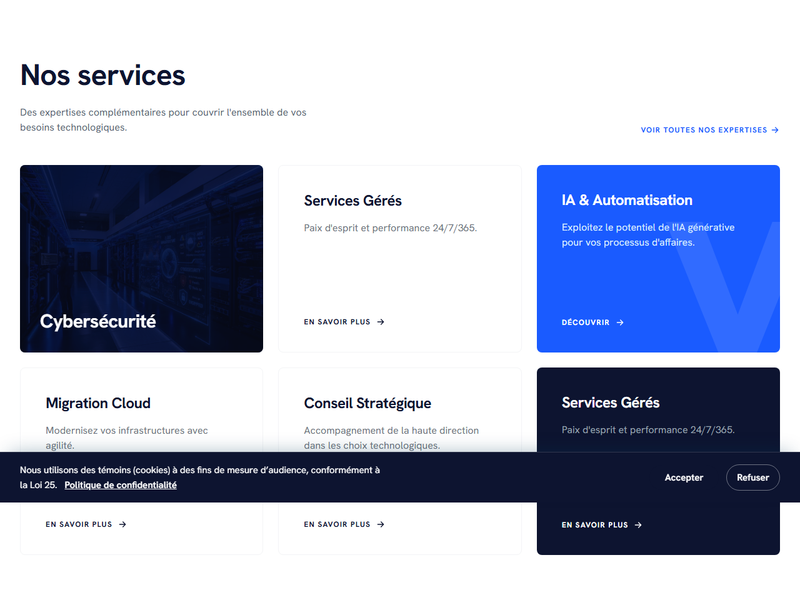
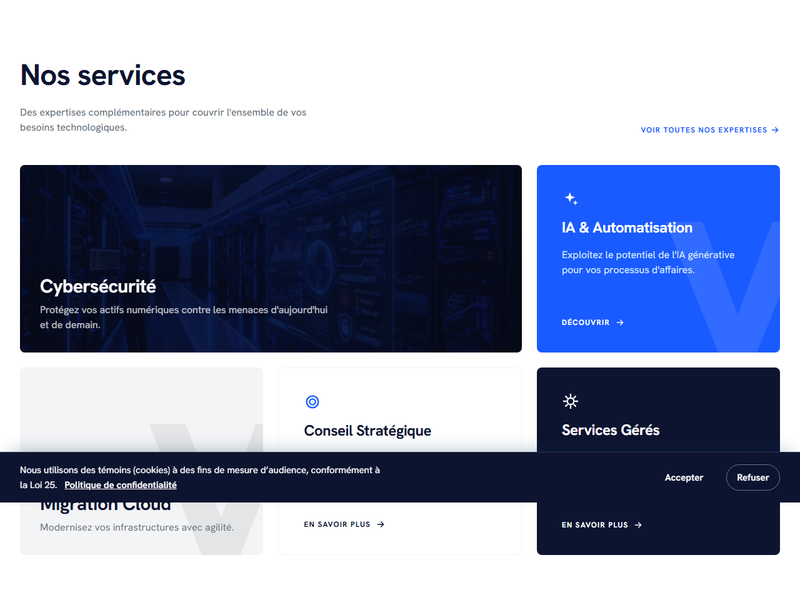
feat(pages): zero lien mort + 404 editable CMS, mention prototype retiree ; feat(home): bento reference - dedupe Services Geres, carte large, icones, V filigrane ; feat(design): footer blanc comme header

diff --git a/src/content.config.ts b/src/content.config.ts
@@ -365,11 +365,18 @@ function sectionsSchema(image: () => z.ZodTypeAny) {
           // Visuel de la tuile (chemin PUBLIC) ; requis pour la variante image.
           image: z.string().default(''),
           // Fidélité maquette (bento « Nos services ») : peau de la carte.
-          // image = photo + voile nuit, titre 30px ; claire = blanche bordée ;
-          // bleue = aplat Bleu Victrix + forme décorative ; nuit = aplat navy.
+          // image = photo + voile nuit, titre 30px (sans image : placeholder
+          // gris clair + « V » filigrane) ; claire = blanche bordée ;
+          // bleue = aplat Bleu Victrix + « V » filigrane ; nuit = aplat navy.
           variant: z.enum(['image', 'claire', 'bleue', 'nuit']).default('claire'),
           // Libellé du lien de CETTE carte ; vide = learnMore de la section.
           linkLabel: z.string().default(''),
+          // Référence bento 2026-08-11 : carte LARGE (2 colonnes sur 3) —
+          // ex. Cybersécurité en tête de grille. Additif, défaut false.
+          wide: z.boolean().default(false),
+          // Pictogramme optionnel en tête des peaux claire/bleue/nuit
+          // (clés fermées — référence bento 2026-08-11). Vide = aucun.
+          icon: z.enum(['', 'ia', 'strategie', 'engrenage']).default(''),
         }),
       ),
     }),

diff --git a/docs/design/arbitrages-design-a-trancher.md b/docs/design/arbitrages-design-a-trancher.md
@@ -126,6 +126,17 @@ per la règle v2 (structure = export, valeurs = planche) — **à confirmer** :
   header passe de `bg-surface` (Ivoire `#FAF7F3`) à **BLANC** (`bg-white`) —
   appliqué à `Header.astro` + `CampaignHeader.astro` (cohérent avec le panneau
   méga déjà blanc). Pour info à l'équipe design.
+- **RÉVISION 2026-08-11 (suite, proposition user acceptée)** : le FOOTER passe
+  aussi de `bg-surface-container-low` (Sable clair) à **BLANC**, aligné sur le
+  header, avec liseré froid `#C5C6D0/30` en tête (séparation sur les sections
+  blanches) — `Footer.astro` + `CampaignFooter.astro`. L'export Figma
+  « Composants » montrait un footer clair sable — divergence assumée, à
+  confirmer avec l'équipe design.
+- **Bento accueil (référence user 2026-08-11)** : « Services Gérés » dédoublé
+  (5 cartes), Cybersécurité LARGE (2 col, description affichée sur la photo),
+  « V » filigrane sur la peau bleue et sur le placeholder gris (peau image
+  sans image), pictogrammes fermés ia/strategie/engrenage en tête des cartes
+  colorées. Extensions ADDITIVES du contrat (wide/icon).
 - **Question tokens d'état (audit P-16, 2026-08-11)** 🔔 : le thème n'a qu'un
   rôle d'ERREUR (`--color-error*`) — aucun rôle succès/avertissement. Le
   tableau de bord du portail (prototype mock) emploie un vert `#0A6B3C` et un
